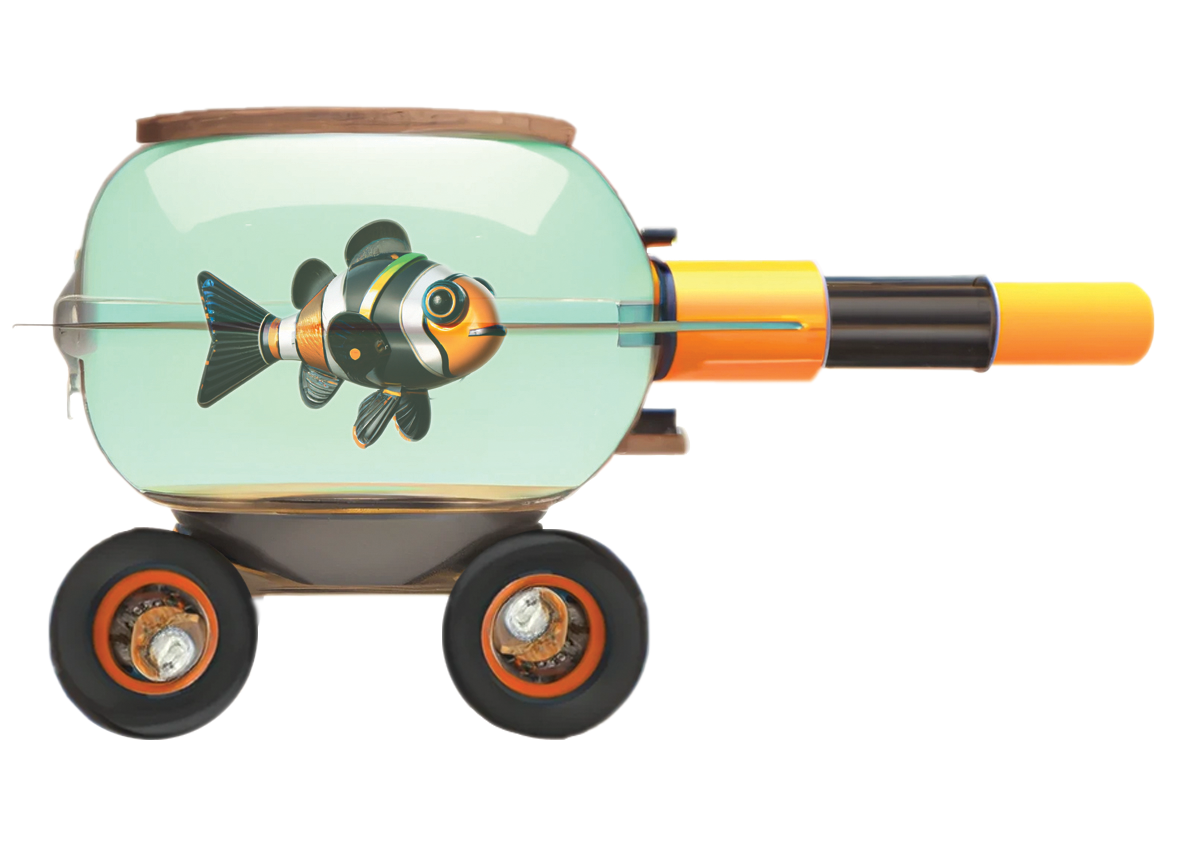
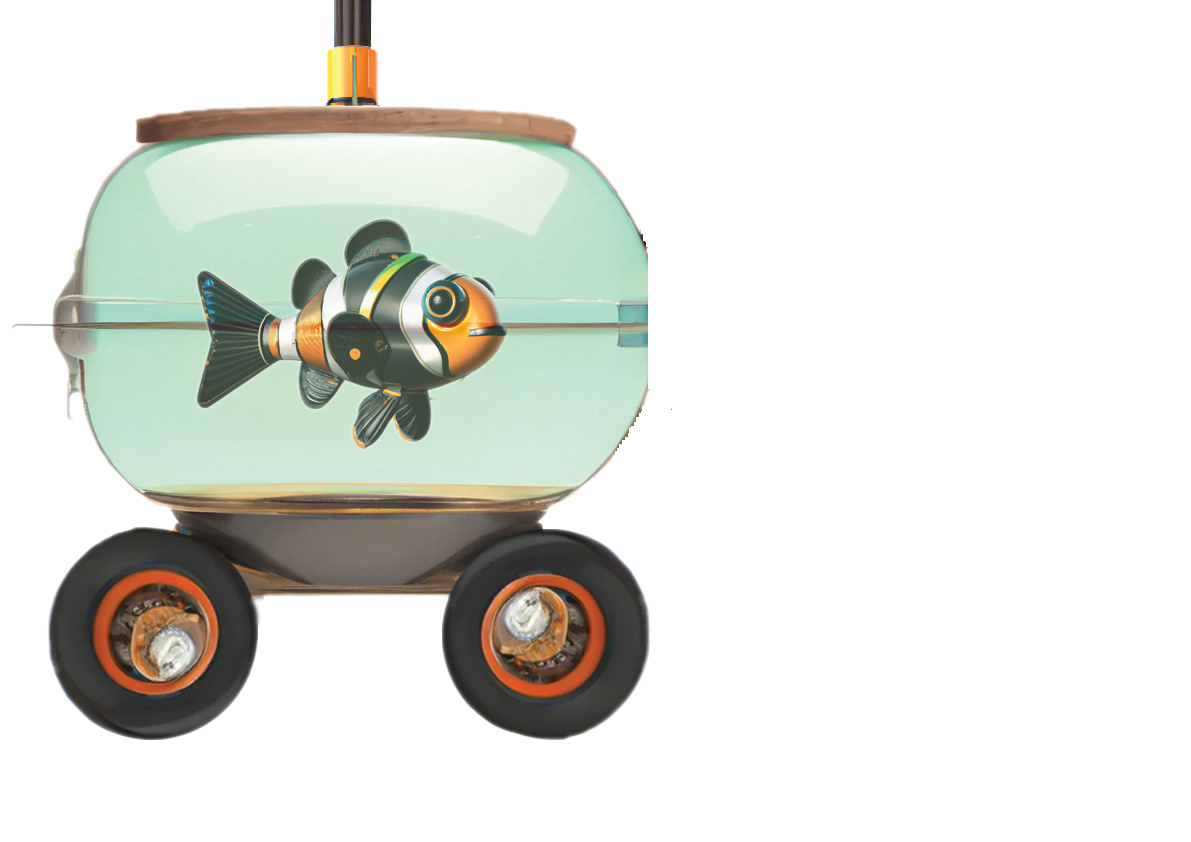
implementacion de la bala

Changed region(s): [[0.4971, 0.247, 0.9941, 0.5558], [0.2485, 0.0, 0.3417, 0.1235]]

diff --git a/Car.cpp b/Car.cpp
@@ -15,10 +15,21 @@ void initializeCar()
 	car.canCollide = true;
 	car.isJumping = true;
 
+	car.bulletActive = false;
+	car.bullet.x = car.rec.x;
+	car.bullet.x = car.rec.y;
+	car.bullet.width = 10;
+	car.bullet.height = 10;
+
+
 }
 
 void playerInput()
 {
+	if (IsKeyPressed(KEY_ENTER))
+	{
+		bulletCar();
+	}
 	if (IsKeyDown(KEY_SPACE) && !car.isJumping)
 	{
 		car.speed.y = -600;
@@ -65,6 +76,18 @@ void playerMovement()
 	{
 		car.rec.x = GetScreenWidth() - car.rec.width;
 	}
+	if (car.bulletActive == true)
+	{
+		car.bullet.y -= 400 * GetFrameTime();
+	}
+
+	if (car.bullet.y <= 0)
+	{
+
+		car.bulletActive = false;
+		car.bullet.x =car.rec.x+25;
+		car.bullet.y = car.rec.y-10;
+	}
 }
 
 void playerCollition(Car& car, Obstacle& osbtacle)
@@ -75,4 +98,9 @@ void playerCollition(Car& car, Obstacle& osbtacle)
 		initializeObstacle();
 		
 	}
+}
+
+bool bulletCar()
+{
+	return car.bulletActive = true;
 }

diff --git a/Game.cpp b/Game.cpp
@@ -32,6 +32,14 @@ void Drawing(Texture2D& background, Texture2D& foreground)
 	DrawRectangleRec(car.rec, BLUE);//CAR DRAWING
 	DrawRectangleRec(obstacle.rec, RED);//OBSTACLE DRAWING
 	DrawRectangleRec(spaceShip.pos, RED);//OBSTACLE DRAWING
+	if (car.bulletActive == true)
+	{
+		DrawRectangle(static_cast<int>(car.bullet.x),
+			static_cast<int>(car.bullet.y),
+			static_cast<int>(car.bullet.width),
+			static_cast<int>(car.bullet.height),
+			WHITE);
+	}
 
 	//---------------------------------------------------------------------------
 	EndDrawing();

diff --git a/Car.h b/Car.h
@@ -4,7 +4,9 @@
 
 struct Car
 {
+	bool bulletActive = false;
 	Rectangle rec;
+	Rectangle bullet;
 	Vector2 speed;
 	Vector2 startingPoint;
 	bool isJumping;
@@ -18,3 +20,4 @@ void initializeCar();
 void playerInput();
 void playerMovement();
 void playerCollition(Car& car, Obstacle& osbtacle);
+bool bulletCar();
